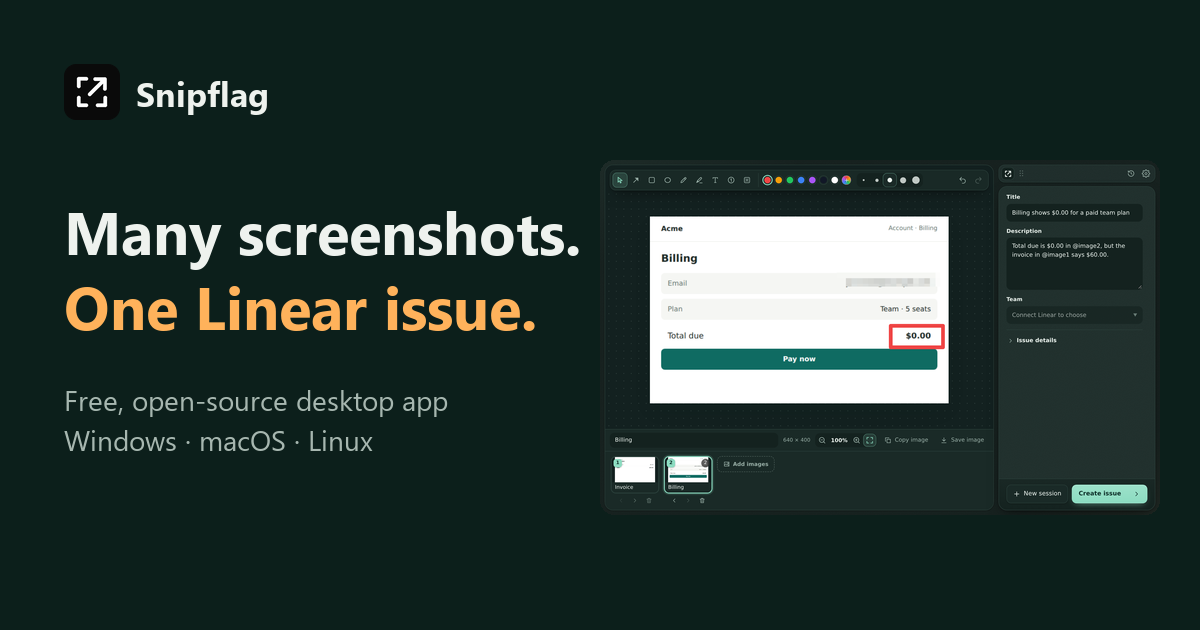
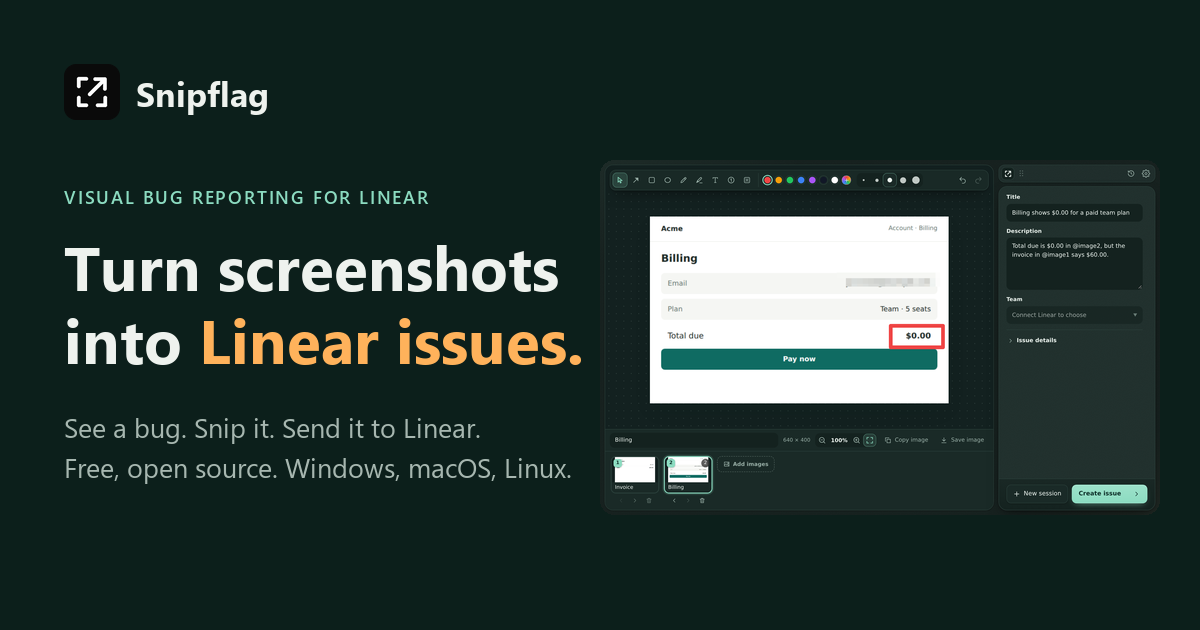
site: position Snipflag as visual bug reporting for Linear
Hero leads with 'Turn screenshots into Linear issues.', How it works
contrasts the usual routine with Snipflag, features lead with desktop
capture and Linear fields, new local-first privacy statement, FAQ adds
ShareX/Snagit and audience answers and fixes the stale OAuth setup
answer. OG image, meta, manifest and README match.

Changed region(s): [[0.0308, 0.3016, 0.4933, 0.754]]

diff --git a/site/index.html b/site/index.html
@@ -3,8 +3,8 @@
 <head>
 <meta charset="utf-8">
 <meta name="viewport" content="width=device-width, initial-scale=1, viewport-fit=cover">
-<title>Snipflag: Screenshots to one Linear issue, free desktop app</title>
-<meta name="description" content="Capture, annotate and send several screenshots to one Linear issue. Free, open-source desktop app for Windows, macOS and Linux. Nothing uploads early.">
+<title>Snipflag: Turn screenshots into Linear issues</title>
+<meta name="description" content="Visual bug reporting for Linear. Capture anything on screen, mark it up, pixelate private data and create the issue. Free, open source, local-first.">
 <link rel="canonical" href="https://razee4315.github.io/snipflag/">
 <meta name="robots" content="index, follow, max-image-preview:large">
 <meta name="theme-color" content="#0C1F1B">
@@ -13,16 +13,16 @@
 
 <meta property="og:type" content="website">
 <meta property="og:site_name" content="Snipflag">
-<meta property="og:title" content="Snipflag: Many screenshots. One Linear issue.">
-<meta property="og:description" content="A free, open-source desktop app that captures, annotates and sends several screenshots to one Linear issue.">
+<meta property="og:title" content="Snipflag: Turn screenshots into Linear issues">
+<meta property="og:description" content="See a bug. Snip it. Send it to Linear. A free, open-source desktop app for visual bug reports. Screenshots stay on your computer until you create the issue.">
 <meta property="og:url" content="https://razee4315.github.io/snipflag/">
 <meta property="og:image" content="https://razee4315.github.io/snipflag/og.png">
 <meta property="og:image:width" content="1200">
 <meta property="og:image:height" content="630">
-<meta property="og:image:alt" content="The Snipflag editor with an annotated billing screenshot, next to the words Many screenshots. One Linear issue.">
+<meta property="og:image:alt" content="The Snipflag editor with an annotated billing screenshot, next to the words Turn screenshots into Linear issues.">
 <meta name="twitter:card" content="summary_large_image">
-<meta name="twitter:title" content="Snipflag: Many screenshots. One Linear issue.">
-<meta name="twitter:description" content="Capture, annotate and send several screenshots to one Linear issue. Free for Windows, macOS and Linux.">
+<meta name="twitter:title" content="Snipflag: Turn screenshots into Linear issues">
+<meta name="twitter:description" content="See a bug. Snip it. Send it to Linear. Free, open-source visual bug reporting for Windows, macOS and Linux.">
 <meta name="twitter:image" content="https://razee4315.github.io/snipflag/og.png">
 
 <link rel="icon" href="favicon.svg" type="image/svg+xml">
@@ -44,7 +44,7 @@
       "@type": "SoftwareApplication",
       "@id": "https://razee4315.github.io/snipflag/#app",
       "name": "Snipflag",
-      "description": "Desktop app that captures, annotates and sends several screenshots to one Linear issue.",
+      "description": "Visual bug reporting for Linear: a desktop app that captures anything on screen, annotates it and creates a Linear issue. Screenshots stay local until you submit.",
       "applicationCategory": "DeveloperApplication",
       "applicationSubCategory": "Bug reporting",
       "operatingSystem": "Windows, macOS, Linux",
@@ -59,17 +59,19 @@
       "image": "https://razee4315.github.io/snipflag/og.png",
       "screenshot": "https://razee4315.github.io/snipflag/assets/img/hero-dark.webp",
       "video": { "@type": "VideoObject", "name": "Snipflag in action", "description": "Capture a checkout page, annotate it, pixelate private fields, and create one Linear issue.", "thumbnailUrl": "https://razee4315.github.io/snipflag/assets/video/demo-poster.webp", "contentUrl": "https://razee4315.github.io/snipflag/assets/video/demo.mp4", "uploadDate": "2026-09-26", "duration": "PT33S" },
-      "featureList": ["Region capture across monitors", "Arrow, rectangle, ellipse, pen, highlighter, text, numbered steps and pixelate", "Up to 10 screenshots per Linear issue", "Linear OAuth with PKCE", "Drafts that survive restarts", "Duplicate-safe retries"]
+      "featureList": ["Screenshot to Linear issue in one window", "Region capture of any app on any monitor", "Arrow, rectangle, ellipse, pen, highlighter, text, numbered steps and pixelate", "Up to 10 screenshots per Linear issue", "Linear OAuth with PKCE", "Drafts that survive restarts", "Duplicate-safe retries"]
     },
     { "@type": "WebSite", "@id": "https://razee4315.github.io/snipflag/#site", "name": "Snipflag", "url": "https://razee4315.github.io/snipflag/" },
     {
       "@type": "FAQPage",
       "mainEntity": [
-        { "@type": "Question", "name": "Is Snipflag free?", "acceptedAnswer": { "@type": "Answer", "text": "Yes. It's free and open source under the MIT License. No account, subscription or screenshot cloud." } },
-        { "@type": "Question", "name": "How does Snipflag connect to Linear?", "acceptedAnswer": { "@type": "Answer", "text": "With Linear OAuth and PKCE. In this version you create an OAuth application in Linear, add the callback http://127.0.0.1:47839/callback, and paste its client ID into Snipflag." } },
-        { "@type": "Question", "name": "Why does my computer warn about the installer?", "acceptedAnswer": { "@type": "Answer", "text": "v1.2.0 is an unsigned preview. Installers are built on GitHub Actions with published checksums, but they are not code-signed yet." } },
-        { "@type": "Question", "name": "Does it record video or console logs?", "acceptedAnswer": { "@type": "Answer", "text": "No, Snipflag is screenshots only. For recordings or browser logs, Jam or BugShot is a better fit." } },
-        { "@type": "Question", "name": "Does it work with Jira or GitHub Issues?", "acceptedAnswer": { "@type": "Answer", "text": "No, Linear only. You can still copy or save any annotated screenshot as a PNG." } }
+        { "@type": "Question", "name": "How is this different from ShareX or Snagit?", "acceptedAnswer": {"@type": "Answer", "text": "ShareX and Snagit are great screenshot tools. They give you an image, and filing the issue is still up to you. Snipflag is built for that last step: you pick the team, project, labels and priority in the app and create the Linear issue with every screenshot in order." } },
+        { "@type": "Question", "name": "Who is Snipflag for?", "acceptedAnswer": {"@type": "Answer", "text": "People who work in Linear every day and report visual bugs themselves: developers, designers, founders and small product teams. If you need session recordings, console logs or a feedback widget for customers, Jam or BugShot fits better." } },
+        { "@type": "Question", "name": "Is Snipflag free?", "acceptedAnswer": {"@type": "Answer", "text": "Yes. It's free and open source under the MIT License. No account, subscription or screenshot cloud." } },
+        { "@type": "Question", "name": "How does Snipflag connect to Linear?", "acceptedAnswer": {"@type": "Answer", "text": "Choose Connect Linear, approve access in your browser, and go back to Snipflag. It uses Linear OAuth with PKCE, keeps the token in your system's credential store, and never uses a client secret." } },
+        { "@type": "Question", "name": "Why does my computer warn about the installer?", "acceptedAnswer": {"@type": "Answer", "text": "v1.2.0 is an unsigned preview. Installers are built on GitHub Actions with published checksums, but they are not code-signed yet." } },
+        { "@type": "Question", "name": "Does it record video or console logs?", "acceptedAnswer": {"@type": "Answer", "text": "No, Snipflag is screenshots only. For recordings or browser logs, Jam or BugShot is a better fit." } },
+        { "@type": "Question", "name": "Does it work with Jira or GitHub Issues?", "acceptedAnswer": {"@type": "Answer", "text": "No, and that's on purpose. Snipflag is built only for Linear so it can follow Linear's fields and workflow closely. You can still copy or save any annotated screenshot as a PNG." } }
       ]
     }
   ]
@@ -96,16 +98,17 @@
 <main id="main">
   <section class="hero" aria-labelledby="hero-title">
     <div class="wrap">
-      <h1 id="hero-title" data-split>Many screenshots. <span class="accent">One Linear issue.</span></h1>
-      <p class="lede" data-hero-fade>Capture your screen, mark what's wrong, and send it all to Linear in one clear issue.</p>
+      <p class="eyebrow" data-hero-fade>Visual bug reporting for Linear</p>
+      <h1 id="hero-title" data-split>Turn screenshots into <span class="accent">Linear issues.</span></h1>
+      <p class="lede" data-hero-fade>See a bug anywhere on your screen. Snip it, mark it up, and send it to Linear without breaking your flow.</p>
       <div class="hero-actions" data-hero-fade>
         <a class="btn btn-primary" id="dl-main" data-download href="#download">
           <svg viewBox="0 0 24 24" fill="none" stroke="currentColor" stroke-width="2.2" stroke-linecap="round" stroke-linejoin="round" aria-hidden="true"><path d="M12 4v12m0 0-5-5m5 5 5-5M5 20h14"/></svg>
           <span data-dl-label>Download free</span> <small data-dl-meta></small>
         </a>
-        <a class="btn btn-ghost" href="#how">See how it works</a>
+        <a class="btn btn-ghost" href="https://github.com/Razee4315/snipflag">View source <span aria-hidden="true">→</span></a>
       </div>
-      <p class="hero-meta" data-hero-fade>Windows, macOS, Linux · Open source · <a href="#faq-unsigned">Unsigned preview</a></p>
+      <p class="hero-meta" data-hero-fade>Free and open source · Windows, macOS, Linux · No Snipflag cloud · <a href="#faq-unsigned">Unsigned preview</a></p>
       <figure class="hero-shot hero-video" data-hero-shot>
         <video data-film width="1920" height="1080" muted loop playsinline preload="metadata" poster="assets/video/launch-poster.webp" aria-label="Snipflag launch film: the old screenshot-to-issue routine, then Snipflag capturing, marking up, pixelating and sending one Linear issue.">
           <source src="assets/video/launch.mp4" type="video/mp4">
@@ -129,13 +132,27 @@
     <div class="wrap">
       <div class="head center">
         <p class="eyebrow">How it works</p>
-        <h2 id="how-title" data-split>Three steps. No file juggling.</h2>
+        <h2 id="how-title" data-split>Screenshot tools stop at the image.</h2>
+        <p>Snipflag keeps going until the Linear issue exists. One shortcut replaces the whole routine.</p>
       </div>
-      <ol class="steps">
-        <li data-reveal><h3>Capture</h3><p>Press <kbd>Ctrl</kbd> <kbd>Shift</kbd> <kbd>2</kbd> and drag over anything on screen.</p></li>
-        <li data-reveal><h3>Mark it up</h3><p>Arrows, boxes, numbered steps, text and highlights. Pixelate anything private.</p></li>
-        <li data-reveal><h3>Send one issue</h3><p>Add more screenshots, then create one Linear issue with all of them, in order.</p></li>
-      </ol>
+      <div class="flow">
+        <div class="flow-card old" data-reveal>
+          <h3 class="label">The usual way</h3>
+          <ol class="chain">
+            <li><span>Screenshot</span></li><li><span>Paste into an editor</span></li><li><span>Draw a box</span></li><li><span>Save the file</span></li><li><span>Open Linear</span></li><li><span>New issue</span></li><li><span>Drag the file in</span></li><li><span>Pick project and assignee</span></li><li><span>Describe the picture</span></li>
+          </ol>
+          <p class="flow-foot">Then again for the next screenshot.</p>
+        </div>
+        <div class="flow-card new" data-reveal>
+          <h3 class="label">With Snipflag</h3>
+          <ol class="steps-short">
+            <li><span><strong>Snip it.</strong> Press <kbd>Ctrl</kbd> <kbd>Shift</kbd> <kbd>2</kbd> and drag over anything on screen, in any app.</span></li>
+            <li><span><strong>Mark it up.</strong> Arrows, boxes, numbered steps and text. Pixelate anything private.</span></li>
+            <li><span><strong>Send it to Linear.</strong> Pick team, project, labels and priority, then Create issue. Add more screenshots first if you need them.</span></li>
+          </ol>
+          <p class="flow-foot">One Linear issue, every screenshot in order.</p>
+        </div>
+      </div>
     </div>
   </section>
 
@@ -163,13 +180,26 @@
     <div class="wrap">
       <div class="head center">
         <p class="eyebrow">Features</p>
-        <h2 id="features-title" data-split>Small app. Complete report.</h2>
+        <h2 id="features-title" data-split>Small app. Complete Linear issue.</h2>
       </div>
       <div class="features">
-        <div class="feature" data-reveal><h3>Up to 10 screenshots per issue</h3><p>Each keeps its own marks and undo history. Reorder them, caption them, and mention them with @image.</p></div>
-        <div class="feature" data-reveal><h3>Private by default</h3><p>Nothing uploads until you click Create issue. Pixelation is burned into the image.</p></div>
-        <div class="feature" data-reveal><h3>Never lose a draft</h3><p>Drafts save automatically and come back after a restart.</p></div>
-        <div class="feature" data-reveal><h3>No duplicate issues</h3><p>If the network drops, a retry checks Linear first instead of creating a second issue.</p></div>
+        <div class="feature" data-reveal><h3>Works outside the browser</h3><p>Capture any app on any monitor: desktop apps, design tools, terminals, the browser. No extension needed.</p></div>
+        <div class="feature" data-reveal><h3>Linear fields in the app</h3><p>Team, project, assignee, labels, priority and description templates. It remembers what you used for each team.</p></div>
+        <div class="feature" data-reveal><h3>Many screenshots, one issue</h3><p>Up to 10 per issue, each with its own marks and undo history. Reorder, caption, and mention them with @image.</p></div>
+        <div class="feature" data-reveal><h3>Pixelate before you send</h3><p>Real block pixelation burned into the pixels, not a layer someone can peel off.</p></div>
+        <div class="feature" data-reveal><h3>Never lose a draft</h3><p>Drafts save as you work and come back after a restart.</p></div>
+        <div class="feature" data-reveal><h3>No duplicate issues</h3><p>If the network drops, a retry checks Linear first instead of filing a second issue.</p></div>
+      </div>
+    </div>
+  </section>
+
+  <section class="section pt0 statement-wrap" id="privacy" aria-labelledby="privacy-title">
+    <div class="wrap">
+      <div class="statement" data-reveal>
+        <p class="eyebrow">Local-first</p>
+        <h2 id="privacy-title">Your screenshots stay on your computer until you click Create issue.</h2>
+        <p>Then they go straight to Linear. There is no Snipflag server, no account and no analytics, and the code is open for anyone to check.</p>
+        <p class="statement-link"><a class="inline-link" href="https://github.com/Razee4315/snipflag">Read the source on GitHub</a></p>
       </div>
     </div>
   </section>
@@ -210,11 +240,13 @@
         <h2 id="faq-title" data-split>Questions.</h2>
       </div>
       <div class="faq">
+        <details class="qa"><summary>How is this different from ShareX or Snagit?</summary><div class="a"><p>ShareX and Snagit are great screenshot tools. They give you an image, and filing the issue is still up to you. Snipflag is built for that last step: you pick the team, project, labels and priority in the app and create the Linear issue with every screenshot in order. <a href="compare/sharex-greenshot-flameshot/">Snipflag vs ShareX, Greenshot and Flameshot</a></p></div></details>
+        <details class="qa"><summary>Who is Snipflag for?</summary><div class="a"><p>People who work in Linear every day and report visual bugs themselves: developers, designers, founders and small product teams. If you need session recordings, console logs or a feedback widget for customers, <a href="compare/jam/">Jam</a> or <a href="compare/bugshot/">BugShot</a> fits better.</p></div></details>
         <details class="qa"><summary>Is Snipflag free?</summary><div class="a"><p>Yes. It's free and open source under the MIT License. No account, subscription or screenshot cloud.</p></div></details>
-        <details class="qa"><summary>How does Snipflag connect to Linear?</summary><div class="a"><p>With Linear OAuth and PKCE. In this version you create an OAuth application in Linear, add the callback <code>http://127.0.0.1:47839/callback</code>, and paste its client ID into Snipflag. <a href="https://github.com/Razee4315/snipflag/blob/main/docs/LINEAR.md">Setup guide</a></p></div></details>
+        <details class="qa"><summary>How does Snipflag connect to Linear?</summary><div class="a"><p>Choose Connect Linear, approve access in your browser, and go back to Snipflag. It uses Linear OAuth with PKCE, keeps the token in your system's credential store, and never uses a client secret. <a href="https://github.com/Razee4315/snipflag#connecting-linear">Details</a></p></div></details>
         <details class="qa" id="faq-unsigned"><summary>Why does my computer warn about the installer?</summary><div class="a"><p>v1.2.0 is an unsigned preview. Installers are built on GitHub Actions with <a href="https://github.com/Razee4315/snipflag/releases/download/v1.2.0/SHA256SUMS.txt">published checksums</a>, but they are not code-signed yet.</p></div></details>
         <details class="qa"><summary>Does it record video or console logs?</summary><div class="a"><p>No, Snipflag is screenshots only. For recordings or browser logs, <a href="compare/jam/">Jam</a> or <a href="compare/bugshot/">BugShot</a> is a better fit.</p></div></details>
-        <details class="qa"><summary>Does it work with Jira or GitHub Issues?</summary><div class="a"><p>No, Linear only. You can still copy or save any annotated screenshot as a PNG.</p></div></details>
+        <details class="qa"><summary>Does it work with Jira or GitHub Issues?</summary><div class="a"><p>No, and that's on purpose. Snipflag is built only for Linear so it can follow Linear's fields and workflow closely. You can still copy or save any annotated screenshot as a PNG.</p></div></details>
       </div>
     </div>
   </section>
@@ -241,8 +273,8 @@
 
 <footer class="site-footer">
   <div class="wrap">
-    <div class="fine"><a class="brand" href="./"><img src="favicon.svg" width="28" height="28" alt="">Snipflag</a><p>© 2026 Snipflag contributors. Not affiliated with Linear.</p></div>
-    <nav aria-label="Product"><h2>Product</h2><a href="#how">How it works</a><a href="#faq">FAQ</a></nav>
+    <div class="fine"><a class="brand" href="./"><img src="favicon.svg" width="28" height="28" alt="">Snipflag</a><p class="tagline">Snip it. Mark it. Flag it.</p><p>© 2026 Snipflag contributors. Not affiliated with Linear.</p></div>
+    <nav aria-label="Product"><h2>Product</h2><a href="#how">How it works</a><a href="#privacy">Privacy</a><a href="#faq">FAQ</a></nav>
     <nav aria-label="Compare"><h2>Compare</h2><a href="compare/">All tools</a><a href="compare/screenpresso/">Screenpresso</a><a href="compare/jam/">Jam</a><a href="compare/bugshot/">BugShot</a></nav>
     <nav aria-label="Project"><h2>Project</h2><a href="https://github.com/Razee4315/snipflag">GitHub</a><a href="https://github.com/Razee4315/snipflag/releases">Releases</a><a href="https://github.com/Razee4315/snipflag/blob/main/LICENSE">MIT License</a></nav>
   </div>

diff --git a/site/assets/css/site.css b/site/assets/css/site.css
@@ -122,14 +122,34 @@ p { margin: 0; }
 .steps p { margin-top: .5rem; color: var(--muted); font-size: 1rem; }
 
 /* Features */
-.features { display: grid; grid-template-columns: repeat(2, 1fr); gap: var(--gutter); }
+.features { display: grid; grid-template-columns: repeat(3, 1fr); gap: var(--gutter); }
 .feature { padding: 1.75rem; border-radius: var(--radius); background: var(--bg-2); }
 .feature p { margin-top: .5rem; color: var(--muted); font-size: 1rem; }
 
 /* Statement */
-.statement { text-align: center; }
-.statement h2 { max-width: 20ch; margin-inline: auto; }
+.statement { text-align: center; padding: clamp(2.5rem, 6vw, 4.5rem) clamp(1.25rem, 4vw, 3rem); border-radius: var(--radius); background: radial-gradient(ellipse at 50% 0%, rgba(140,220,193,.1), transparent 70%), var(--bg-2); }
+.statement h2 { max-width: 22ch; margin-inline: auto; }
 .statement p { margin: 1.25rem auto 0; max-width: 36rem; color: var(--muted); }
+.statement p.eyebrow { margin: 0 auto 1rem; color: var(--mint); }
+.statement .statement-link { margin-top: 1.5rem; color: var(--text); }
+
+/* How it works: the usual routine next to the Snipflag way */
+.flow { display: grid; grid-template-columns: 1fr 1.15fr; gap: var(--gutter); align-items: stretch; }
+.flow-card { display: flex; flex-direction: column; padding: 1.75rem; border-radius: var(--radius); background: var(--bg-2); }
+.flow-card.new { box-shadow: inset 0 0 0 1.5px var(--accent); }
+.flow-card .label { font-weight: 500; }
+.flow-card.old .label { color: var(--faint); }
+.chain { display: flex; flex-wrap: wrap; gap: .5rem; list-style: none; margin: 1.25rem 0 0; padding: 0; counter-reset: c; }
+.chain li { counter-increment: c; display: inline-flex; align-items: baseline; gap: .45rem; padding: .45rem .75rem; border-radius: 999px; background: var(--bg-3); color: var(--muted); font-size: .9375rem; }
+.chain li span { text-decoration: line-through; text-decoration-color: rgba(238,242,238,.35); }
+.chain li::before { content: counter(c); font: 500 .75rem/1 var(--mono); color: var(--faint); }
+.steps-short { list-style: none; margin: 1.25rem 0 0; padding: 0; display: grid; gap: 1rem; counter-reset: s; }
+.steps-short li { counter-increment: s; display: grid; grid-template-columns: 32px 1fr; gap: .9rem; color: var(--muted); font-size: 1rem; }
+.steps-short li::before { content: counter(s); display: grid; place-items: center; width: 32px; height: 32px; border-radius: 50%; background: var(--accent); color: var(--accent-ink); font: 600 .9375rem/1 var(--font); }
+.steps-short strong { color: var(--text); font-weight: 600; }
+.flow-foot { margin-top: auto; padding-top: 1.25rem; font-size: .9375rem; color: var(--faint); }
+.flow-card.new .flow-foot { color: var(--mint); }
+.site-footer .fine .tagline { margin-bottom: .6rem; color: var(--muted); font-size: .9375rem; }
 
 /* Compare */
 .table-scroll { overflow-x: auto; border-radius: var(--radius); background: var(--bg-2); -webkit-overflow-scrolling: touch; }
@@ -215,13 +235,16 @@ details.qa .a a { color: var(--text); text-decoration: underline; text-decoratio
 .reduced [data-reveal] { opacity: 1 !important; transform: none !important; }
 
 /* Responsive */
+@media (max-width: 1060px) {
+  .features { grid-template-columns: repeat(2, 1fr); }
+}
 @media (max-width: 900px) {
   .nav, .nav-cta { display: none; }
   .menu-btn { display: block; }
   .site-header.open { background: var(--bg); }
   .site-header.open .nav { display: flex; position: fixed; inset: 68px 0 auto 0; flex-direction: column; gap: 0; padding: .5rem var(--gutter) 1.5rem; background: var(--bg); font-size: 1.25rem; color: var(--text); box-shadow: 0 1px 0 var(--line); }
   .site-header.open .nav a { padding: .8rem 0; border-bottom: 1px solid var(--line); }
-  .steps, .features, .verdict, .two-col, .dl-grid { grid-template-columns: 1fr; }
+  .steps, .features, .verdict, .two-col, .dl-grid, .flow { grid-template-columns: 1fr; }
   .site-footer .wrap { grid-template-columns: 1fr 1fr; }
   .site-footer .fine { grid-column: 1 / -1; }
 }

diff --git a/site/404.html b/site/404.html
@@ -64,7 +64,7 @@
 </main>
 <footer class="site-footer">
   <div class="wrap">
-    <div class="fine"><a class="brand" href="/snipflag/"><img src="/snipflag/favicon.svg" width="28" height="28" alt="">Snipflag</a><p>© 2026 Snipflag contributors. Not affiliated with Linear or any product compared here. Product names belong to their owners.</p></div>
+    <div class="fine"><a class="brand" href="/snipflag/"><img src="/snipflag/favicon.svg" width="28" height="28" alt="">Snipflag</a><p class="tagline">Snip it. Mark it. Flag it.</p><p>© 2026 Snipflag contributors. Not affiliated with Linear or any product compared here. Product names belong to their owners.</p></div>
     <nav aria-label="Product"><h2>Product</h2><a href="/snipflag/#how">How it works</a><a href="/snipflag/#download">Download</a></nav>
     <nav aria-label="Compare"><h2>Compare</h2><a href="/snipflag/compare/">All tools</a><a href="/snipflag/compare/screenpresso/">Screenpresso</a><a href="/snipflag/compare/jam/">Jam</a><a href="/snipflag/compare/bugshot/">BugShot</a><a href="/snipflag/compare/sharex-greenshot-flameshot/">ShareX and others</a></nav>
     <nav aria-label="Project"><h2>Project</h2><a href="https://github.com/Razee4315/snipflag">GitHub</a><a href="https://github.com/Razee4315/snipflag/releases">Releases</a><a href="https://github.com/Razee4315/snipflag/blob/main/LICENSE">MIT License</a></nav>

diff --git a/site/compare/bugshot/index.html b/site/compare/bugshot/index.html
@@ -177,7 +177,7 @@
 </main>
 <footer class="site-footer">
   <div class="wrap">
-    <div class="fine"><a class="brand" href="../../"><img src="../../favicon.svg" width="28" height="28" alt="">Snipflag</a><p>© 2026 Snipflag contributors. Not affiliated with Linear or any product compared here. Product names belong to their owners.</p></div>
+    <div class="fine"><a class="brand" href="../../"><img src="../../favicon.svg" width="28" height="28" alt="">Snipflag</a><p class="tagline">Snip it. Mark it. Flag it.</p><p>© 2026 Snipflag contributors. Not affiliated with Linear or any product compared here. Product names belong to their owners.</p></div>
     <nav aria-label="Product"><h2>Product</h2><a href="../../#how">How it works</a><a href="../../#download">Download</a></nav>
     <nav aria-label="Compare"><h2>Compare</h2><a href="../../compare/">All tools</a><a href="../../compare/screenpresso/">Screenpresso</a><a href="../../compare/jam/">Jam</a><a href="../../compare/bugshot/">BugShot</a><a href="../../compare/sharex-greenshot-flameshot/">ShareX and others</a></nav>
     <nav aria-label="Project"><h2>Project</h2><a href="https://github.com/Razee4315/snipflag">GitHub</a><a href="https://github.com/Razee4315/snipflag/releases">Releases</a><a href="https://github.com/Razee4315/snipflag/blob/main/LICENSE">MIT License</a></nav>

diff --git a/site/compare/jam/index.html b/site/compare/jam/index.html
@@ -177,7 +177,7 @@
 </main>
 <footer class="site-footer">
   <div class="wrap">
-    <div class="fine"><a class="brand" href="../../"><img src="../../favicon.svg" width="28" height="28" alt="">Snipflag</a><p>© 2026 Snipflag contributors. Not affiliated with Linear or any product compared here. Product names belong to their owners.</p></div>
+    <div class="fine"><a class="brand" href="../../"><img src="../../favicon.svg" width="28" height="28" alt="">Snipflag</a><p class="tagline">Snip it. Mark it. Flag it.</p><p>© 2026 Snipflag contributors. Not affiliated with Linear or any product compared here. Product names belong to their owners.</p></div>
     <nav aria-label="Product"><h2>Product</h2><a href="../../#how">How it works</a><a href="../../#download">Download</a></nav>
     <nav aria-label="Compare"><h2>Compare</h2><a href="../../compare/">All tools</a><a href="../../compare/screenpresso/">Screenpresso</a><a href="../../compare/jam/">Jam</a><a href="../../compare/bugshot/">BugShot</a><a href="../../compare/sharex-greenshot-flameshot/">ShareX and others</a></nav>
     <nav aria-label="Project"><h2>Project</h2><a href="https://github.com/Razee4315/snipflag">GitHub</a><a href="https://github.com/Razee4315/snipflag/releases">Releases</a><a href="https://github.com/Razee4315/snipflag/blob/main/LICENSE">MIT License</a></nav>

diff --git a/site/compare/screenpresso/index.html b/site/compare/screenpresso/index.html
@@ -176,7 +176,7 @@
 </main>
 <footer class="site-footer">
   <div class="wrap">
-    <div class="fine"><a class="brand" href="../../"><img src="../../favicon.svg" width="28" height="28" alt="">Snipflag</a><p>© 2026 Snipflag contributors. Not affiliated with Linear or any product compared here. Product names belong to their owners.</p></div>
+    <div class="fine"><a class="brand" href="../../"><img src="../../favicon.svg" width="28" height="28" alt="">Snipflag</a><p class="tagline">Snip it. Mark it. Flag it.</p><p>© 2026 Snipflag contributors. Not affiliated with Linear or any product compared here. Product names belong to their owners.</p></div>
     <nav aria-label="Product"><h2>Product</h2><a href="../../#how">How it works</a><a href="../../#download">Download</a></nav>
     <nav aria-label="Compare"><h2>Compare</h2><a href="../../compare/">All tools</a><a href="../../compare/screenpresso/">Screenpresso</a><a href="../../compare/jam/">Jam</a><a href="../../compare/bugshot/">BugShot</a><a href="../../compare/sharex-greenshot-flameshot/">ShareX and others</a></nav>
     <nav aria-label="Project"><h2>Project</h2><a href="https://github.com/Razee4315/snipflag">GitHub</a><a href="https://github.com/Razee4315/snipflag/releases">Releases</a><a href="https://github.com/Razee4315/snipflag/blob/main/LICENSE">MIT License</a></nav>

diff --git a/site/compare/sharex-greenshot-flameshot/index.html b/site/compare/sharex-greenshot-flameshot/index.html
@@ -176,7 +176,7 @@
 </main>
 <footer class="site-footer">
   <div class="wrap">
-    <div class="fine"><a class="brand" href="../../"><img src="../../favicon.svg" width="28" height="28" alt="">Snipflag</a><p>© 2026 Snipflag contributors. Not affiliated with Linear or any product compared here. Product names belong to their owners.</p></div>
+    <div class="fine"><a class="brand" href="../../"><img src="../../favicon.svg" width="28" height="28" alt="">Snipflag</a><p class="tagline">Snip it. Mark it. Flag it.</p><p>© 2026 Snipflag contributors. Not affiliated with Linear or any product compared here. Product names belong to their owners.</p></div>
     <nav aria-label="Product"><h2>Product</h2><a href="../../#how">How it works</a><a href="../../#download">Download</a></nav>
     <nav aria-label="Compare"><h2>Compare</h2><a href="../../compare/">All tools</a><a href="../../compare/screenpresso/">Screenpresso</a><a href="../../compare/jam/">Jam</a><a href="../../compare/bugshot/">BugShot</a><a href="../../compare/sharex-greenshot-flameshot/">ShareX and others</a></nav>
     <nav aria-label="Project"><h2>Project</h2><a href="https://github.com/Razee4315/snipflag">GitHub</a><a href="https://github.com/Razee4315/snipflag/releases">Releases</a><a href="https://github.com/Razee4315/snipflag/blob/main/LICENSE">MIT License</a></nav>

diff --git a/site/compare/index.html b/site/compare/index.html
@@ -166,7 +166,7 @@
 </main>
 <footer class="site-footer">
   <div class="wrap">
-    <div class="fine"><a class="brand" href="../"><img src="../favicon.svg" width="28" height="28" alt="">Snipflag</a><p>© 2026 Snipflag contributors. Not affiliated with Linear or any product compared here. Product names belong to their owners.</p></div>
+    <div class="fine"><a class="brand" href="../"><img src="../favicon.svg" width="28" height="28" alt="">Snipflag</a><p class="tagline">Snip it. Mark it. Flag it.</p><p>© 2026 Snipflag contributors. Not affiliated with Linear or any product compared here. Product names belong to their owners.</p></div>
     <nav aria-label="Product"><h2>Product</h2><a href="../#how">How it works</a><a href="../#download">Download</a></nav>
     <nav aria-label="Compare"><h2>Compare</h2><a href="../compare/">All tools</a><a href="../compare/screenpresso/">Screenpresso</a><a href="../compare/jam/">Jam</a><a href="../compare/bugshot/">BugShot</a><a href="../compare/sharex-greenshot-flameshot/">ShareX and others</a></nav>
     <nav aria-label="Project"><h2>Project</h2><a href="https://github.com/Razee4315/snipflag">GitHub</a><a href="https://github.com/Razee4315/snipflag/releases">Releases</a><a href="https://github.com/Razee4315/snipflag/blob/main/LICENSE">MIT License</a></nav>

diff --git a/site/tools/build_pages.py b/site/tools/build_pages.py
@@ -89,7 +89,7 @@ def header(p, current=""):
 def footer(p):
     return f"""<footer class="site-footer">
   <div class="wrap">
-    <div class="fine"><a class="brand" href="{p}"><img src="{p}favicon.svg" width="28" height="28" alt="">Snipflag</a><p>© 2026 Snipflag contributors. Not affiliated with Linear or any product compared here. Product names belong to their owners.</p></div>
+    <div class="fine"><a class="brand" href="{p}"><img src="{p}favicon.svg" width="28" height="28" alt="">Snipflag</a><p class="tagline">Snip it. Mark it. Flag it.</p><p>© 2026 Snipflag contributors. Not affiliated with Linear or any product compared here. Product names belong to their owners.</p></div>
     <nav aria-label="Product"><h2>Product</h2><a href="{p}#how">How it works</a><a href="{p}#download">Download</a></nav>
     <nav aria-label="Compare"><h2>Compare</h2><a href="{p}compare/">All tools</a><a href="{p}compare/screenpresso/">Screenpresso</a><a href="{p}compare/jam/">Jam</a><a href="{p}compare/bugshot/">BugShot</a><a href="{p}compare/sharex-greenshot-flameshot/">ShareX and others</a></nav>
     <nav aria-label="Project"><h2>Project</h2><a href="https://github.com/Razee4315/snipflag">GitHub</a><a href="https://github.com/Razee4315/snipflag/releases">Releases</a><a href="https://github.com/Razee4315/snipflag/blob/main/LICENSE">MIT License</a></nav>

diff --git a/docs/STATUS.md b/docs/STATUS.md
@@ -1,5 +1,16 @@
 # Current state / handoff
 
+## Website: Linear-first positioning (owner request) — 2026-09-28
+
+- Why: early Reddit replies ("ShareX already does this", "use Snagit") showed visitors read Snipflag as a screenshot tool. The site now positions it as "Visual bug reporting for Linear".
+- Home hero: eyebrow "Visual bug reporting for Linear", headline "Turn screenshots into Linear issues.", new lede, secondary CTA "View source" (GitHub) in place of "See how it works", meta line adds "Free and open source" and "No Snipflag cloud". The launch film stays directly under it.
+- `#how` now sets "The usual way" (nine struck-through steps) beside "With Snipflag" (Snip it / Mark it up / Send it to Linear), under "Screenshot tools stop at the image."
+- Features: six cards led by "Works outside the browser" and "Linear fields in the app" (3 columns, 2 below 1060 px, 1 below 900 px). New `#privacy` statement: screenshots stay on your computer until Create issue, no Snipflag server/account/analytics.
+- FAQ: new "How is this different from ShareX or Snagit?" and "Who is Snipflag for?"; **fixed a stale answer** that told people to register their own Linear OAuth app (v1.2.0 has built-in Connect Linear); the Jira answer now says Linear-only is deliberate. FAQ JSON-LD regenerated from the visible answers.
+- Title, description, OG/Twitter text, schema description, manifest and `og.png` (text redrawn with Pillow over the existing app screenshot) use the new line. "Snip it. Mark it. Flag it." moved to the footer (home and generated pages). README header matches.
+- Local check (Python static server plus the built-in browser, 1024 px and 375 px): `check_site.py` passes on 7 pages; generated pages up to date; no console errors; no horizontal overflow at 375 px. Not deployed at this checkpoint.
+- Open risk worth checking before any distribution push: the built-in Linear OAuth app has not been verified from a workspace other than the owner's (see the onboarding native gates in TESTING.md). If it is restricted to one workspace, Connect Linear fails for new users.
+
 ## Website: launch film is the hero video (owner request) — 2026-09-27
 
 - The owner asked for the launch film first, not next to the demo recording, with muted autoplay once visitors scroll a little, and a better mobile layout.

diff --git a/README.md b/README.md
@@ -5,8 +5,9 @@
 <h1 align="center">Snipflag</h1>
 
 <p align="center">
-  <strong>Snip it. Mark it. Flag it.</strong><br>
-  Turn one or more screenshots into one clear Linear issue.
+  <strong>Turn screenshots into Linear issues.</strong><br>
+  Free, open-source, local-first visual bug reporting for Linear.<br>
+  <sub>Snip it. Mark it. Flag it.</sub>
 </p>
 
 <p align="center">
@@ -19,7 +20,9 @@
 
 ---
 
-Snipflag is a focused desktop app for reporting visual problems. Capture a region of your screen, mark what matters, capture another, add a title, and send everything to Linear as a single issue with the screenshots in order. It runs on Windows (primary), macOS, and Linux, and is built with Tauri 2, Rust, React, and TypeScript.
+See a bug anywhere on your screen, snip it, mark it up, and send it to Linear without breaking your flow. Snipflag is a small desktop app for people who work in Linear every day and report visual bugs themselves. Capture any app, mark what matters, add more screenshots if you need them, pick the team, project, labels and priority, and create one Linear issue with the screenshots in order. Your screenshots stay on your computer until you click **Create issue**; there is no Snipflag cloud.
+
+It runs on Windows (primary), macOS, and Linux, and is built with Tauri 2, Rust, React, and TypeScript.
 
 > **Website:** [razee4315.github.io/snipflag](https://razee4315.github.io/snipflag/) · **v1.2.0:** [Download the release (unsigned installers)](https://github.com/Razee4315/snipflag/releases/tag/v1.2.0). Native runtime acceptance and signing are still pending; see [verification status](docs/STATUS.md).
 
